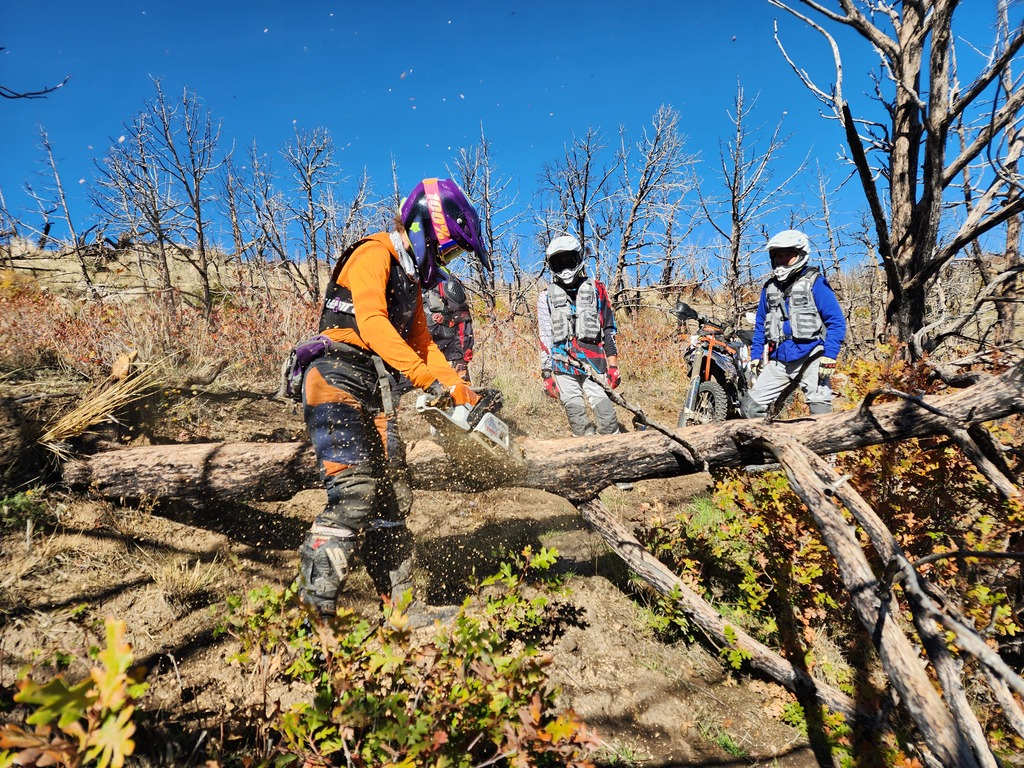
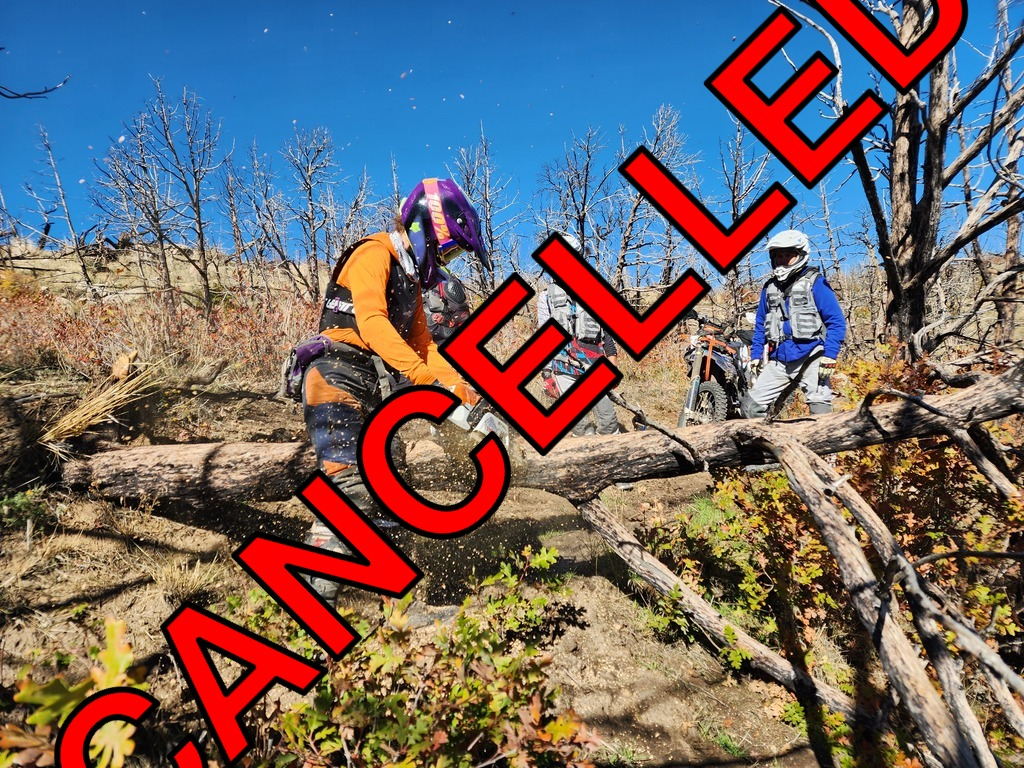
Mark Sarlacc Trail Clearing Opener as cancelled due to weather
Overlay "CANCELLED" on event images, update teaser, and add a bold
cancellation note at the top of the post body. A rescheduled trail
clearing is expected within the next week.

Changed region(s): [[0.0312, 0.0, 0.9688, 1.0]]

diff --git a/_posts/volunteers/2026-04-26-sarlacc-trail-clearing-opener.md b/_posts/volunteers/2026-04-26-sarlacc-trail-clearing-opener.md
@@ -3,7 +3,7 @@ layout: volunteer
 sidebar: right
 subheadline: "Join us and the BLM to ride and clear Star Wars Trails for the opener"
 title: "Sarlacc Trail Clearing Opener"
-teaser: "Ride and clear the Star Wars Trails before the public Opener!"
+teaser: "Cancelled due to weather"
 breadcrumb: true
 tags:
     - volunteer
@@ -23,6 +23,8 @@ volunteer:
     bring: Leather gloves, eye protection, water, hand saws
     directions: https://www.google.com/maps/place/39%C2%B021'15.1%22N+108%C2%B043'27.3%22W/@39.3541944,-108.72425,2252m/data=!3m2!1e3!4b1!4m4!3m3!8m2!3d39.3541944!4d-108.72425
 ---
+**Cancelled due to weather, look for a rescheduled trail clearing within the next week.**
+
 Meet just past the corrals (see the directions link!) by 9am, bring leather gloves, eye protection, and hand saws if you have them.
 
 We'll ride up the Star Wars Trails with the BLM clearing deadfall and repairing trail tread that may have eroded over the winter wildlife closure. This is an opportunity to help give back to our local trails and get a preview of the trail system before the public opener on May 1st.
